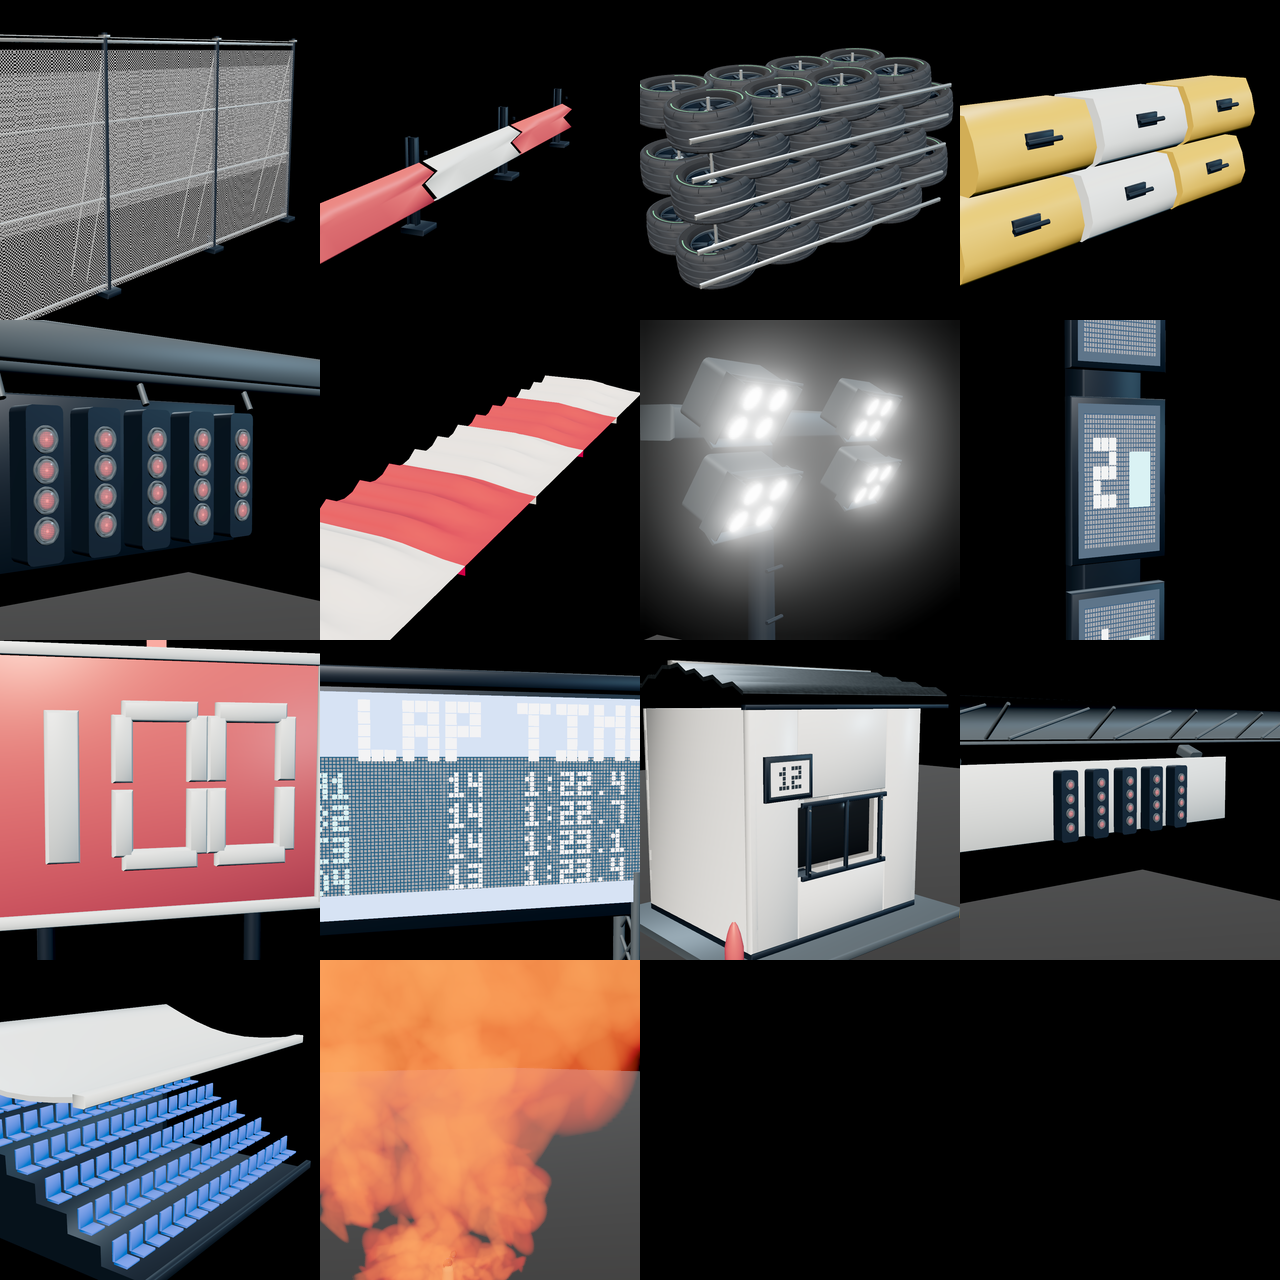
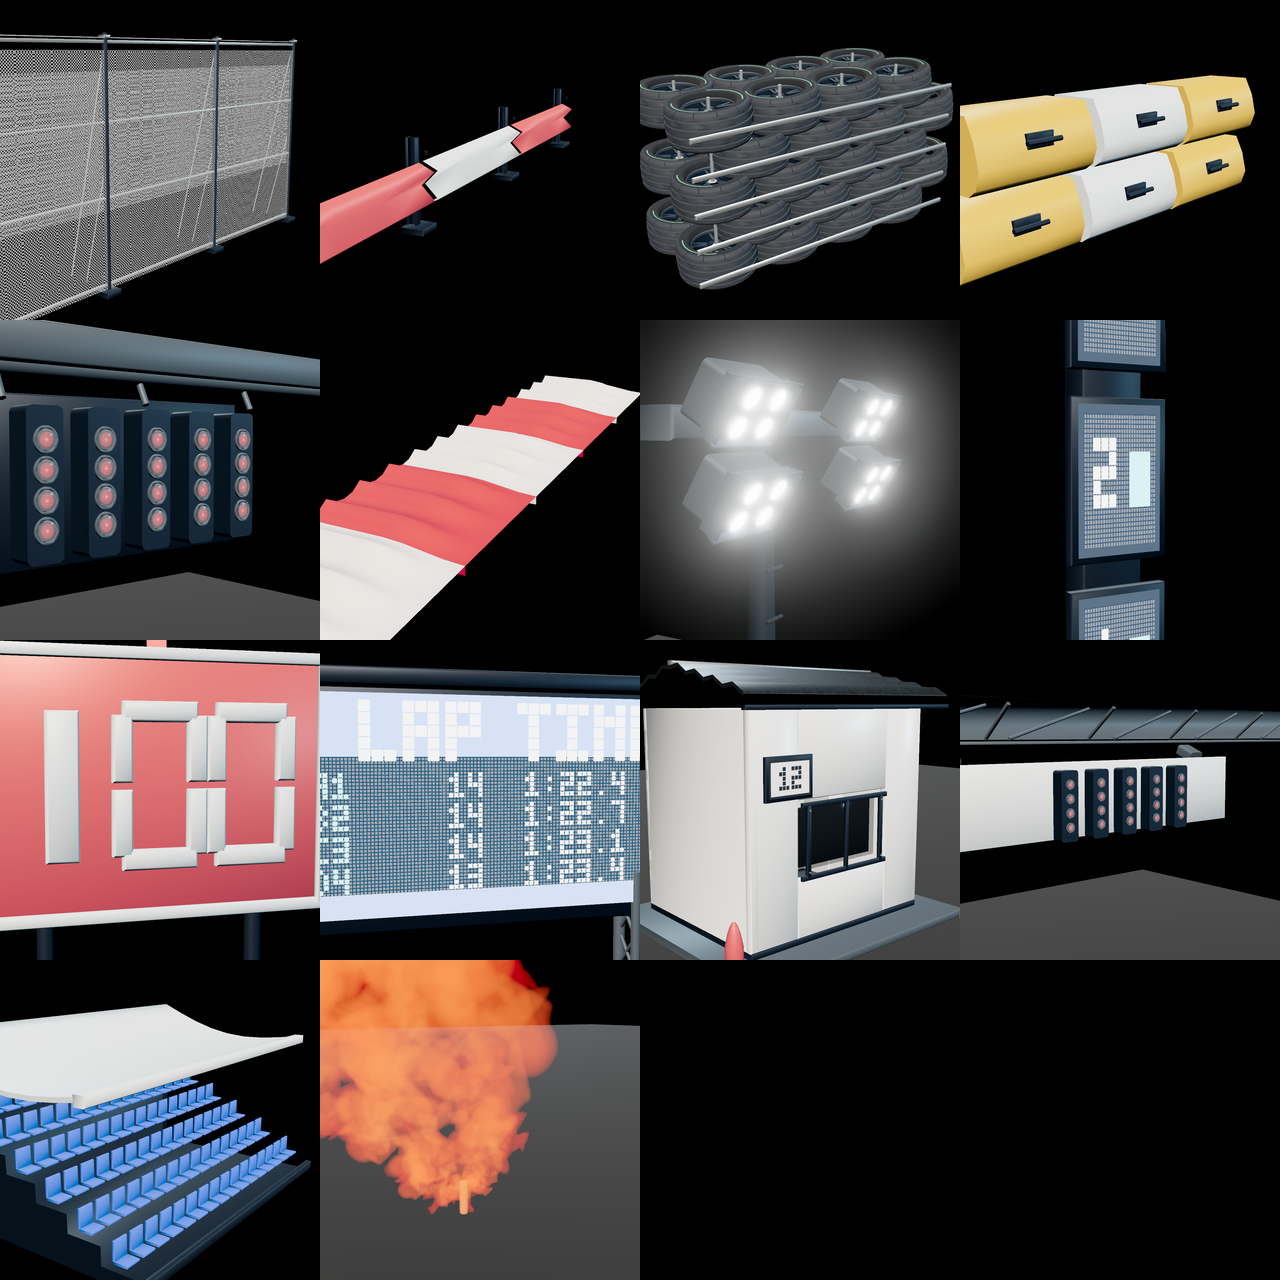
fix(f1-kit): show oranje can base and stitch PR contact sheets
Close the can bottom with a disc, reframe the preview so the tube sits
on the ground, and add a single stacked overview+trackside sheet.

Changed region(s): [[0.25, 0.75, 0.5, 1.0]]

diff --git a/assets/f1-prototypes/f1-oranje-can/model.ts b/assets/f1-prototypes/f1-oranje-can/model.ts
@@ -255,6 +255,11 @@ export function createModel(options: F1OranjeCanOptions = {}): F1OranjeCanInstan
       { yBot: 0, yTop: BODY_H, scaleW: 1, segments: 24 },
     ), body, 'cylinder')
 
+    const base = bevelDisc(BODY_R * 0.92, 0.003, 0.0005, 18)
+    base.rotateX(Math.PI / 2)
+    base.translate(0, 0.0015, 0)
+    emit('body', base, body, 'base')
+
     const lid = bevelDisc(BODY_R * 0.96, 0.004, 0.0008, 18)
     lid.translate(0, BODY_H + 0.002, 0)
     emit('hardware', lid, body, 'lid')
@@ -314,15 +319,16 @@ export function createModel(options: F1OranjeCanOptions = {}): F1OranjeCanInstan
   }
 }
 
-/** Steady-state still — cloud fills the tile, can readable at the base. */
+/** Steady-state still — can base on the ground, plume filling the rest of the tile. */
 export function createPreview({ aspect, time }: { aspect: number; time?: number }) {
   const model = createModel({ lit: true })
   const preview = createF1Preview(model, {
     aspect,
-    target: [0.04, 0.42, 0.06],
-    distance: 1.15,
-    fov: 32,
-    pitch: 0.12,
+    target: [0.03, 0.28, 0.04],
+    distance: 1.35,
+    fov: 36,
+    yaw: -0.55,
+    pitch: 0.22,
     ground: true,
     bloom: true,
   })
